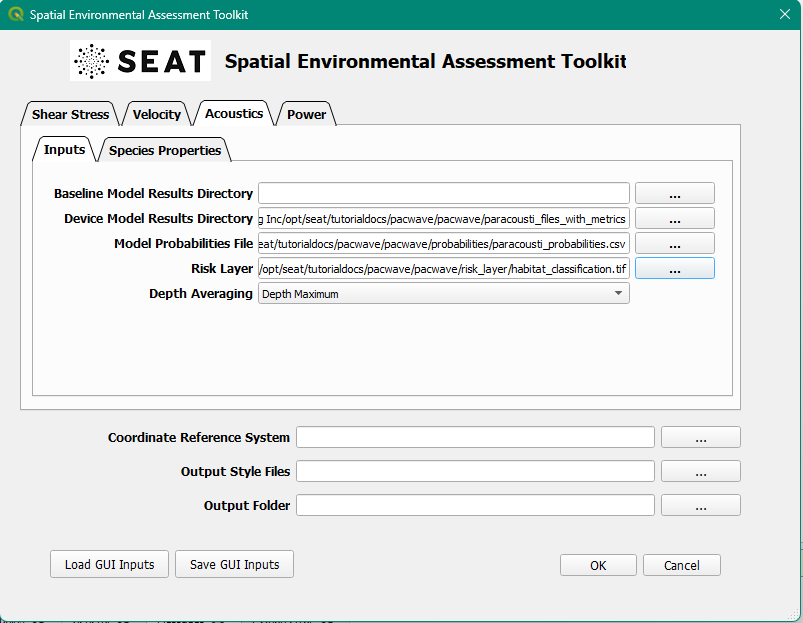
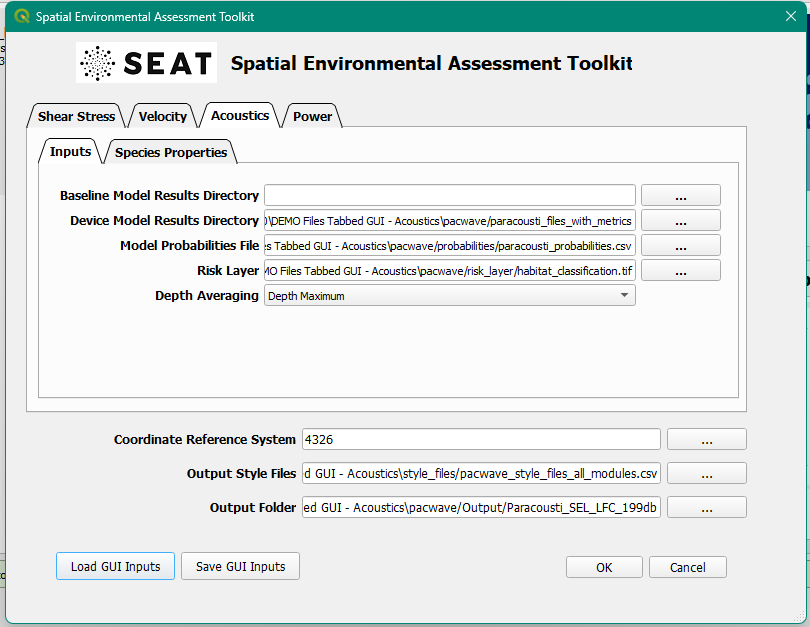
finished tutorial for acoustics

diff --git a/docs/src/seat_qgis_plugin/acoustics/02_inputs.rst b/docs/src/seat_qgis_plugin/acoustics/02_inputs.rst
@@ -1,48 +1,43 @@
-:: _02_inputs:
-  
+.. _02_inputs:
+
 Inputs
 -------
 
 Model Results Directories
 ^^^^^^^^^^^^^^^^^^^^^^^^^^^^
 
-
 For a comprehensive analysis, the SEAT QGIS plugin uses two distinct directories from your model results:
-  1. **Baseline Results Directory**: Contains the model results without any devices. If left blank, a 0dB baseline will be assumed.
-  2. **Model Results Directory**: Contains the model results with devices.
+
+1. **Baseline Results Directory**: Contains the model results without any devices. If left blank, a 0dB baseline will be assumed.
+2. **Model Results Directory**: Contains the model results with devices.
 
 .. figure:: ../../media/model_results_directory_input.webp
-   :scale: 100 %
+   :scale: 100%
    :alt: Interface to choose the Model Results Directory in SEAT's GUI.
 
 The accepted formats for the model results:
 
-  1. Multiple files, each named in the format: `name_condition.nc`. 
-      - `name` is the common prefix for all files.
-      - `run` is the run scenario designated the type of environmental condition (e.g., Hw0.5)
-      - The files should be arranged in the following structure:
-        - `name_run1.nc`
-        - `name_run2.nc`
-        - `name_run3.nc`
+1. Multiple files, each named in the format: `name_condition.nc`.
+   - `name` is the common prefix for all files.
+   - `run` is the run scenario designated the type of environmental condition (e.g., Hw0.5)
+   - The files should be arranged in the following structure:
+     - `name_run1.nc`
+     - `name_run2.nc`
+     - `name_run3.nc`
 
-.. note::    
-  - All model results are in the `netCDF` format.
-  - The number and filename of baseline model files should be identical to the number of device model files to maintain consistency in your analysis.
+.. note::
 
+   - All model results are in the `netCDF` format.
+   - The number and filename of baseline model files should be identical to the number of device model files to maintain consistency in your analysis.
 
-Probabilities 
-^^^^^^^^^^^^^^^
+Probabilities
+^^^^^^^^^^^^^^
 
-The probabilities file defines the likelihood of each model condition occurring. Both shear and stress velocity have probability files, but the format is different for acoustics than the shear and stress velocity modules.
-Adhere to the prescribed naming convention (as delineated in the device/baseline model section). 
-Note that this file correlates with the return interval in years. 
-
+The probabilities file defines the likelihood of each model condition occurring. Both shear and stress velocity have probability files, but the format is different for acoustics than the shear and stress velocity modules. Adhere to the prescribed naming convention (as delineated in the device/baseline model section). Note that this file correlates with the return interval in years.
 
 .. figure:: ../../media/probabilities_input.webp
-   :scale: 100 %
+   :scale: 100%
    :alt: Interface depicting the Probabilities Input in SEAT's GUI.
-
-
 
 **File Specifications**:
 
@@ -77,22 +72,20 @@ Key:
 - `Species Density File`: Either a .csv or .tif file detailing species density.
 - `% of yr`: Represents the percentage of the year.
 
-Risk layer (Optional)
+Risk Layer (Optional)
 ^^^^^^^^^^^^^^^^^^^^^^
 
-The risk layer is a receptor file that serves as an additional input to each module and designated which layers are sensitive and would be effected by the acoustics. 
-It must be a numerically classified .tif format. It is the same as what is used in the shear stress and velocity modules.
+The risk layer is a receptor file that serves as an additional input to each module and designates which layers are sensitive and would be affected by the acoustics. It must be a numerically classified .tif format, the same as what is used in the shear stress and velocity modules.
 
 .. figure:: ../../media/risk_layer_gui_input.webp
-   :scale: 100 %
+   :scale: 100%
    :alt: Risk Layer File
 
-Represents a layer to evalute change against. Examples include vegetation habitat, marine ecosystems, contaminated sediments, marine protected areas, or archaeological artifacts.
+   Represents a layer to evaluate change against. Examples include vegetation habitat, marine ecosystems, contaminated sediments, marine protected areas, or archaeological artifacts.
 
 - **File Type**: Supports geotiff (.tif) file format.
-  
-  - **Geotiff Details**:
 
+  - **Geotiff Details**:
     - Must have the same projection and datum as the model files.
     - Will be nearest-neighbor interpolated to align with the model files' grid points (structured/unstructured).
-    - Must be integer classified eg. (0 = 'Kelp', 1 = 'Rock')
+    - Must be integer classified, e.g., (0 = 'Kelp', 1 = 'Rock')

diff --git a/docs/src/tutorials/pacwave/acoustics.rst b/docs/src/tutorials/pacwave/acoustics.rst
@@ -11,19 +11,28 @@ At this point you should have already setup the input files and style files as d
 
 To run this demonstration, use the **Load GUI Inputs** button located at the bottom left of the SEAT GUI, navigate to :file:`DEMO_acoustics/pacwave/`, and there will be three files available to choose from:
 
-    - :file:`acoustics_module_SEL_199db_threshold.ini`: Sound exposure level with a 199db threshold
-    - :file:`acoustics_module_SEL_HFC_173db_threshold.ini`: Sound exposure level for high frequency creteceans with a 173db threshold
-    - :file:`acoustics_module_SEL_LFC_199db_threshold.ini`: Sound exposure level for low frequency creteceans with a 199db threshold
+    - `acoustics_module_SEL_199db_threshold.ini`: Sound exposure level with a 199db threshold
+    - `acoustics_module_SEL_HFC_173db_threshold.ini`: Sound exposure level for high frequency creteceans with a 173db threshold
+    - `acoustics_module_SEL_LFC_199db_threshold.ini`: Sound exposure level for low frequency creteceans with a 199db threshold
 
 
 
 Click on one, and click OK to load the inputs. If you need detailed instructions on how to load inputs, 
 please refer to the :ref:`save_load_config` section in the :ref:`seat_qgis_plugin` documention.
 
-.. Note::
-   Your paths will differ than the ones shown in the example below. If you get an error double check the paths making sure the files exist at the specified location.
+The :ref:`02_inputs` section of the SEAT QGIS plugin allows users to specify the model results directories and the probabilities file.
 
-.. figure:: ../../media/pacwave_acoustics_input.webp
+.. Note::
+   Your paths will differ than the ones shown in the example below. If you get an error double check the paths making sure, or make sure that the `.ini` files are pointing 
+   to the right path locations.
+
+.. figure:: ../../media/pacwave_acoustics_inputs_filled_out.webp
+   :scale: 100 %
+   :alt: Tanana sedimentation example input
+
+The :ref:`03_species_properties` section of the SEAT QGIS plugin allows users to specify the species spatial probability/density directory and the species file averaged area.
+
+.. figure:: ../../media/pacwave_acoustics_species_properties_filledout.webp
    :scale: 100 %
    :alt: Tanana sedimentation example input
 

diff --git a/docs/src/tutorials/prepare_tutorial_files.rst b/docs/src/tutorials/prepare_tutorial_files.rst
@@ -41,7 +41,8 @@ In order to use the demo, paths within the ``\*.default`` files need to be updat
 
 Option 1: Python
 ^^^^^^^^^^^^^^^^^^^^
-The localize_tutorial_files.py will look for the folders in the :ref:`tutorial-files-access` (pacwave, tanana, and style_files) and update the paths in the ``.default`` files to match the path on your machine.
+The localize_tutorial_files.py will look for the folders in the :ref:`DEMO_files` and update the paths in the  ``.default`` files
+to match the paths on your machine.
 
 .. code-block:: bash
     :caption: localize_tutorial_files.py
@@ -64,7 +65,7 @@ If you do not want to use python you can update the files manually.
 Within the style files directory, open each ``.default`` file in a text editor and replace ``<style_folder>`` with full path to the location on your machine. 
 Then, save the style file as a csv.
 
-For example, if you have placed the style files folder in ``C:\Users\USER\Desktop\DEMO\style_files`` you would open each ``.default`` file and replace ``<style_folder>`` with ``C:\Users\USER\Desktop\DEMO\style_files``. 
+For example, if the style files folder is located at ``C:\Users\USER\Desktop\DEMO\style_files`` , open the ``.default`` files and replace ``<style_folder>`` with ``C:\Users\USER\Desktop\DEMO\style_files``. 
 
 ..  code-block:: none
     :caption: Style Folder \*.default: Replace <style_folder> save as csv

diff --git a/docs/src/seat_qgis_plugin/acoustics/03_species_properties.rst b/docs/src/seat_qgis_plugin/acoustics/03_species_properties.rst
@@ -50,7 +50,7 @@ species present and species density files are located. Both files must be locate
    :scale: 100 %
    :alt: Secondary Constraint
 
-The Species Percent and Species Density files are located in the directory as specified by the "Secondary Constraint". 
+
 For example, in the Paracousti Demo files, there is a directory called "species" that contains the Species Percent and Species Density files. The Species Percent and Species Density files have the names as specifed above e.g., "WhaleWatchPredictions_2021_01.csv". Opening one of these files in a text editor shows the following:
 
 **Example:**
